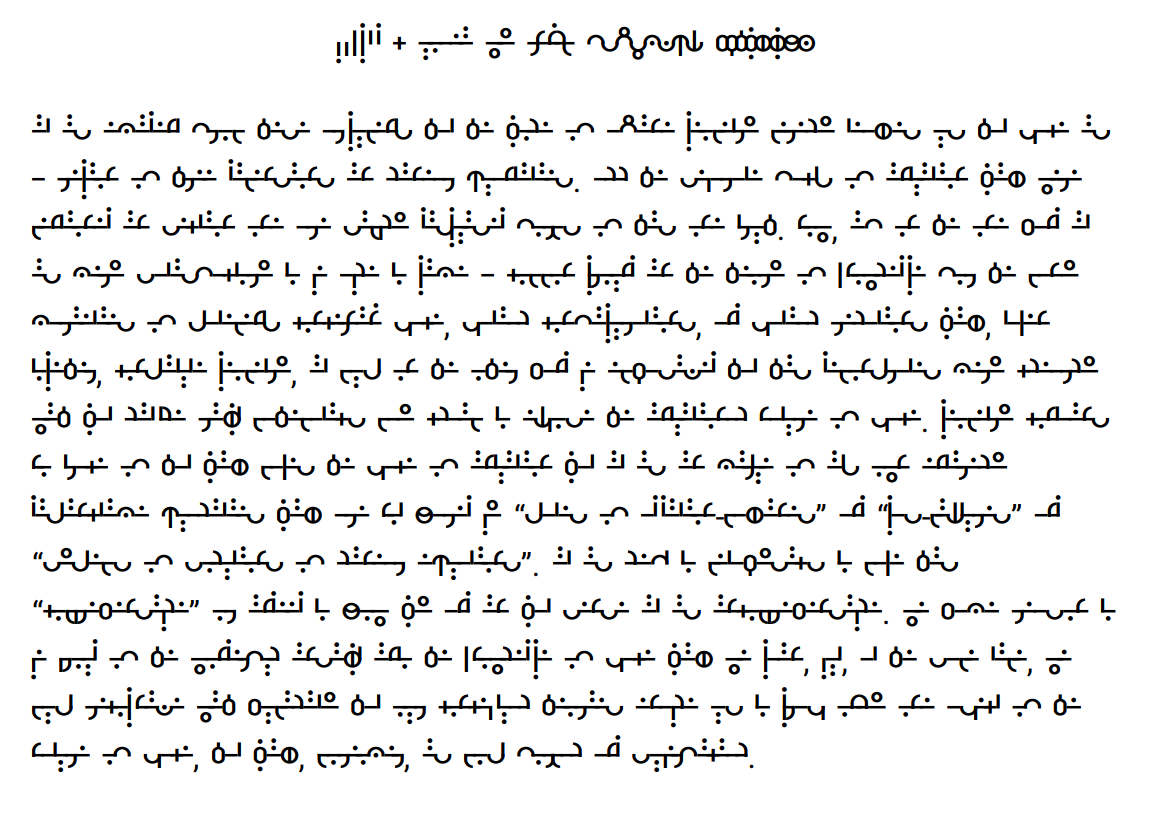
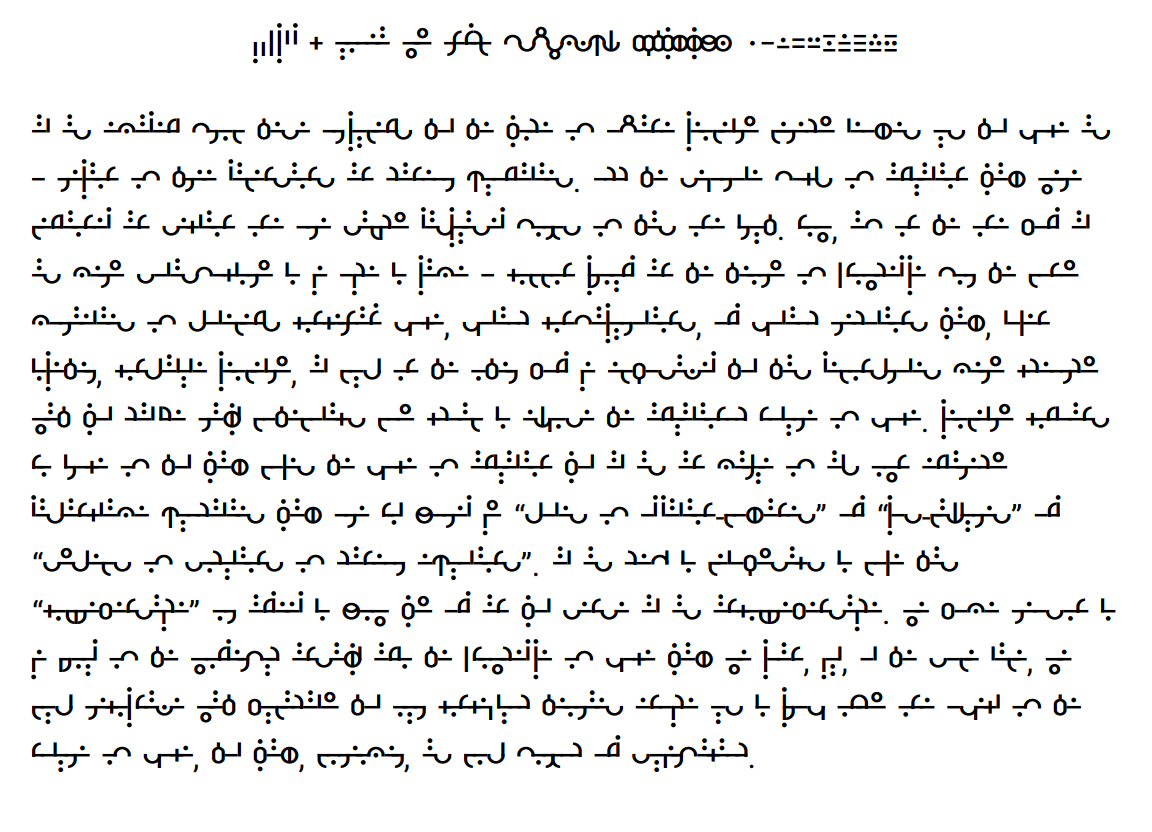
Add digits

Changed region(s): [[0.2188, 0.0312, 0.7812, 0.0938]]

diff --git a/specimen/specimen.html b/specimen/specimen.html
@@ -54,7 +54,7 @@
   </head>
   <body>
     <section class="affine" style="line-height: 1;text-align: center;">
-      <p>bpkgtd c uoaei wy rnnglm fsffssvzqx hphthwhchghshj</p>
+      <p>bpkgtd c uoaei wy rnnglm fsffssvzqx hphthwhchghshj 0123456789</p>
     </section>
 
     <div class="screen-two-up">
